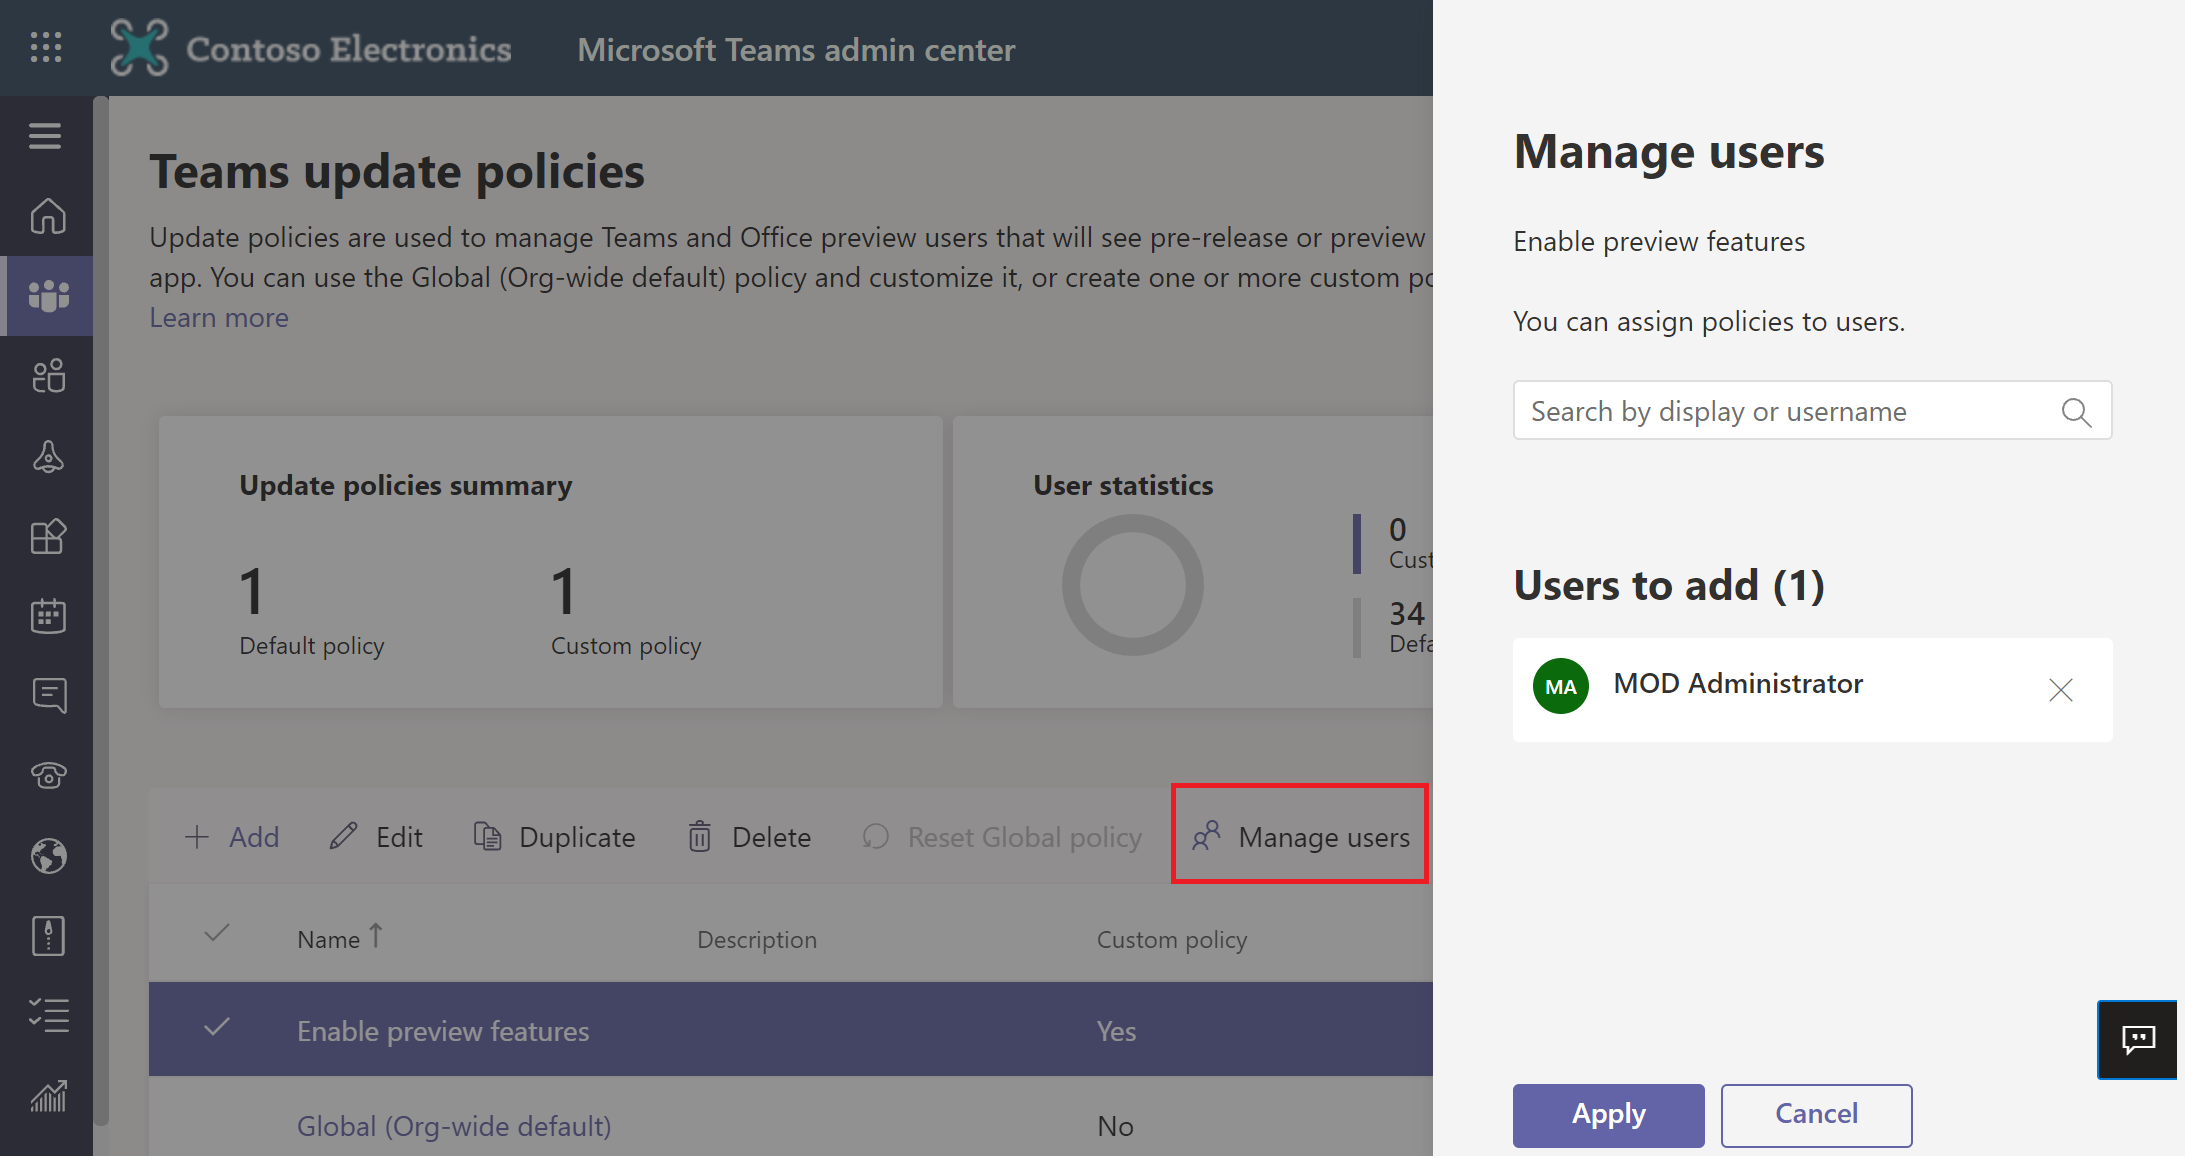
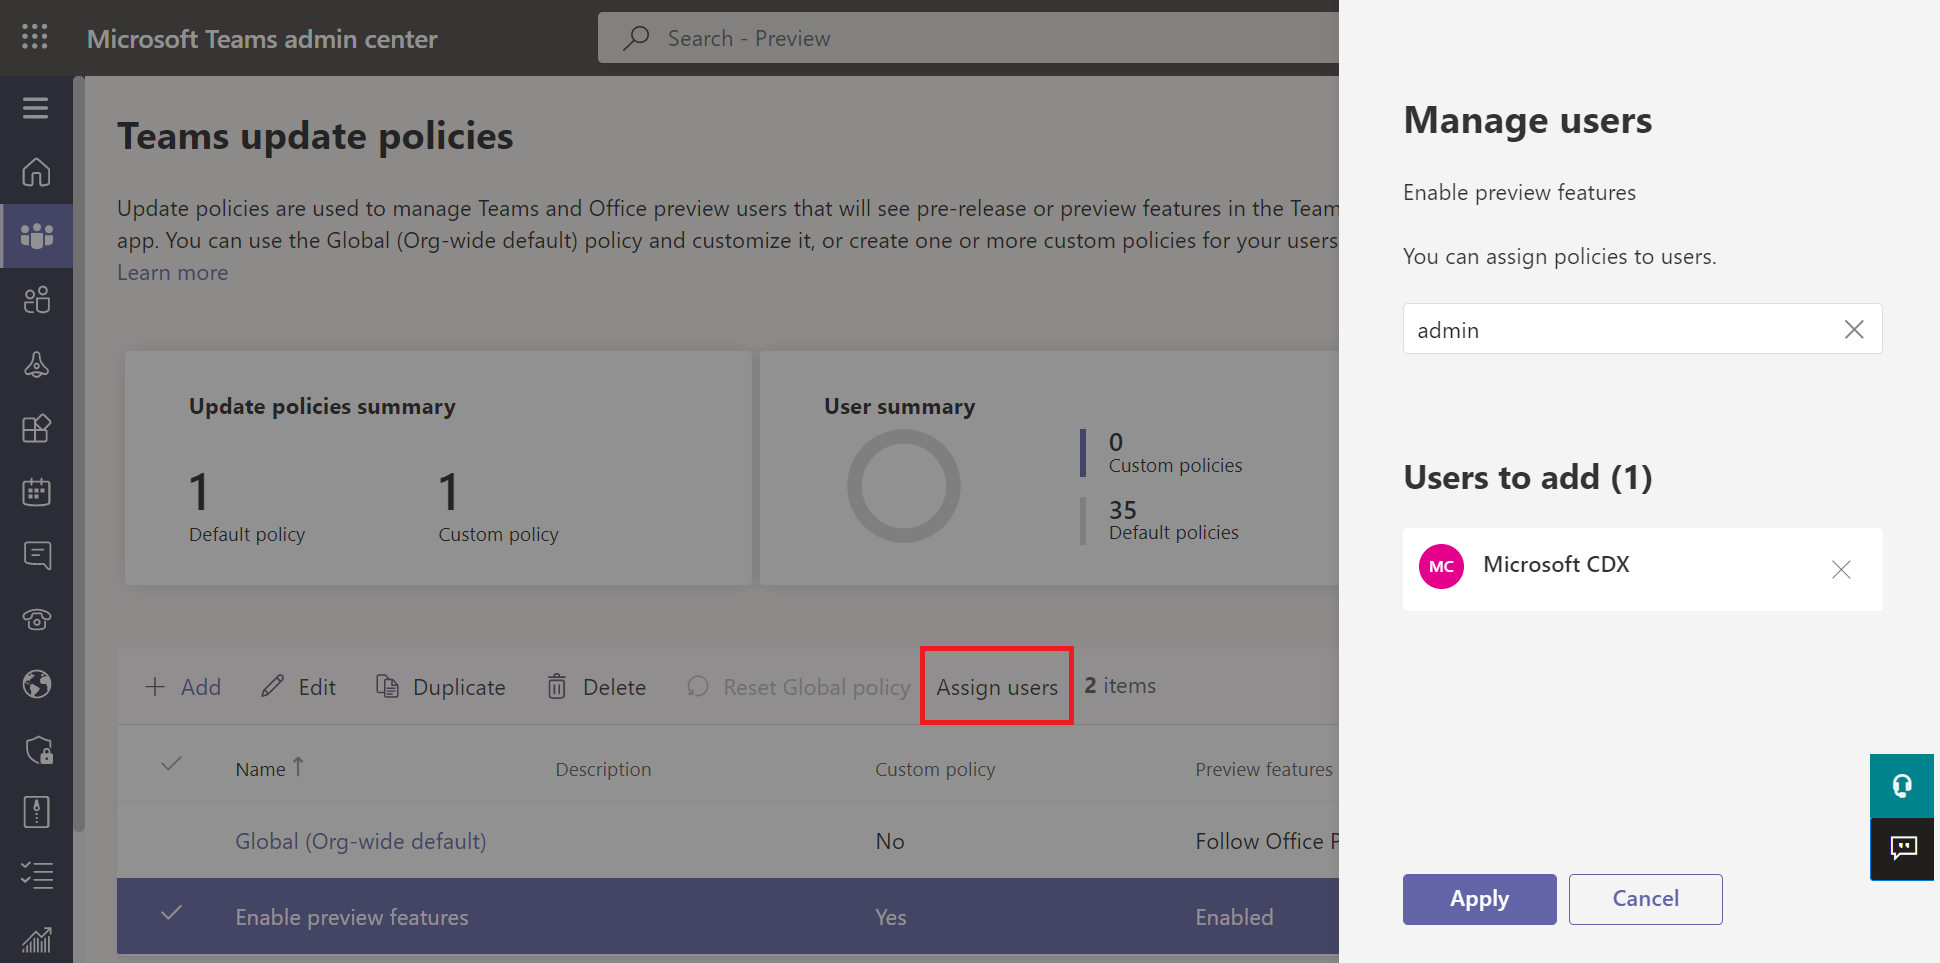
changed files by pdets auto publish service, publishid[5596f246-1943-4e95-bf6b-cd09cc454cc3] and do [publish].

diff --git a/learn-m365-pr/wwl/implement-lifecycle-management-governance-for-microsoft-teams/includes/7-plan-policy-assignment-for-users-groups.md b/learn-m365-pr/wwl/implement-lifecycle-management-governance-for-microsoft-teams/includes/7-plan-policy-assignment-for-users-groups.md
@@ -11,7 +11,7 @@ Policy type | Description | Policies |
 ------------|------------|---|
 Policy packages| A policy package is a collection of predefined policies and settings you can assign to users who have similar roles in your organization.| - Policy package
 Meeting policies | A meeting policy is used to control the features that are available to meeting participants for meetings scheduled by users in your organization. | - Meeting policy<br> - Live events policy| 
-Voice and calling policies| Voice and calling policies manage these settings through teams such as emergency calling, call routing, and caller ID.|- Call park policy<br> - Calling policy<br> - Caller ID policy<br> - Emergency calling policy<br> - Emergency call routing policy<br> - Dial plan<br> - Voice routing policy|
+Voice and calling policies| Voice and calling policies manage these settings through teams such as emergency calling, call routing, and caller ID.|- Calling policy<br>- Call park policy<br>- Caller ID policy<br> - Emergency policy<br> - Voice routing policy<br> - Voicemail policy <br>- Dial plan<br> |
 App policies| App policies are used to control applications in Microsoft Teams, such as allowing or blocking which apps users can install.|- App permission policy<br> - App setup policy|
 Chat, teams, and channel policies| Chat, teams, and channel policies control teams and collaboration feature availability.|- Messaging policy<br> - Templates policy<br> - Teams policy|
 Teams feature policy |Update policies are used to manage Teams and Office preview users that will see pre-release or preview features in the Teams app. |- Update policy|
@@ -61,8 +61,3 @@ A user has one effective policy for each policy type. A user's effective policy 
 > * Group policy assignments are only propagated to users who are direct members of the group. The assignments aren't propagated to members of nested groups.
 > *  If a user has a policy of a given type that was directly assigned to them, you have to remove that policy from the user before they can inherit a policy of the same type from a group.
 > * If you assign policies to batches of more than 20 users through the Microsoft Teams admin center, you can view the status of those policy assignments from the last 30 days in the Activity log (**Teams admin center** > **Dashboard** > **Activity Log**). 
-
-
-## Knowledge check
-
-Choose the best response for the following question. Then select “Check your answers.”

diff --git a/learn-m365-pr/wwl/implement-lifecycle-management-governance-for-microsoft-teams/includes/10-create-manage-teams-templates.md b/learn-m365-pr/wwl/implement-lifecycle-management-governance-for-microsoft-teams/includes/10-create-manage-teams-templates.md
@@ -10,7 +10,7 @@ There are two type of team templates.
 
     Base template types are special templates that Microsoft created for specific industries. These base templates often contain proprietary apps that aren't available in the store and team properties that are not yet supported individually in Teams templates.
 
-    Once a base template type is defined, you can extend or override these special templates with additional properties that you'd like to specify. But some base template types contain properties that can't be overridden. For the available base template types, see [base template types](https://docs.microsoft.com/microsoftteams/get-started-with-teams-templates?azure-portal=true#team-template-capabilities).
+    Once a base template type is defined, you can extend or override these special templates with additional properties that you'd like to specify. But some base template types contain properties that can't be overridden. For the available base template types, see [base template types](/microsoftteams/get-started-with-teams-templates?azure-portal=true#team-template-capabilities).
 
 * **Custom template**
 
@@ -89,13 +89,21 @@ Manage the team templates that your end users see by creating templates policies
 
 8. Select **Save**.
 
+    :::image type="content" source="../media/new-team-template-polocy.png" alt-text="Create templates policy":::
+
    Your new template policy is displayed in the **Templates Policies** list.
 
 ### Assign users to the template policies
 
-Users assigned to a policy will only be able to view the viewable templates within that policy.
+Users assigned to a policy will only be able to view the viewable templates within that policy. You can use the Teams admin center or PowerShell to assign a templates policy to:
+
+* An individual user or to a small number of users at a time
+* A batch of users or to large sets of users at a time
+
+To assign a templates policy to an individual user or to a small number of users at a time:
 
 1. From **Templates Policies**, select a policy, and then select **Manage users**.
 2. Type the users to assign to this policy.
 3. Select **Apply**.
 
+Keep in mind that it may take up to 24 hours for your new policy to take effect for your users.

diff --git a/learn-m365-pr/wwl/implement-lifecycle-management-governance-for-microsoft-teams/includes/2-plan-teams-lifecycle.md b/learn-m365-pr/wwl/implement-lifecycle-management-governance-for-microsoft-teams/includes/2-plan-teams-lifecycle.md
@@ -67,7 +67,7 @@ The **end stage** occurs when a team has concluded its useful lifecycle, normall
 
 Teams are deleted with a "soft delete" that IT can reverse for up to 30 days. Deleting teams doesn't affect any chats or content that were retained in accordance with compliance policies. Channels also have a "soft delete" and can be reversed for up to 21 days after deletion. 
 
-When a group or team is deleted, most of the information in the connected services is also deleted. Understand the impacts when a team is deleted to avoid any potential data loss.
+When a group or team is deleted, most of the information in the connected services is also deleted with some exceptions. Any content protected by a retention policy remains available through eDiscovery searches. Understand the impacts when a team is deleted to avoid any potential data loss.
 
 * **Guests** - When a team is deleted, guests aren't removed from Azure Active Directory. 
 
@@ -82,6 +82,8 @@ When a group or team is deleted, most of the information in the connected servic
 * **Power BI** - Power BI data and workspaces can operate independently from groups and teams. If you need the report once the group or team is deleted, it can be copied from the existing workspace to another workspace within Power BI.
 
 * **Dataverse for Teams** - If the team is deleted, the Dataverse for Teams environment that was created will also be deleted. The Dataverse for Teams environment itself can be deleted from within the team by the team owner. To keep the data, you can upgrade a Dataverse for Teams environment to a Dataverse database environment. The upgraded environment's lifecycle will no longer be tied to the lifecycle of that team. If the team is deleted, the upgraded environment remains.
+
+* **Project** - Projects and Roadmaps created in Project for the web are associated with Microsoft 365 groups and have approaches to off-boarding similar to Power BI. You can **assign the project to another group** or **export data from the project or roadmap**.
 
 Important decision points related to the end stage include:
 

diff --git a/learn-m365-pr/wwl/implement-lifecycle-management-governance-for-microsoft-teams/includes/12-summary.md b/learn-m365-pr/wwl/implement-lifecycle-management-governance-for-microsoft-teams/includes/12-summary.md
@@ -1,10 +1,11 @@
-In this module, you learned about Teams lifecycle management and governance. You learned different features to govern Microsoft 365 Groups, ways to assign Teams policies, and Teams preview features controls. 
+In this module, you learned about Teams lifecycle management and governance. You learned different features to govern Microsoft 365 Groups, ways to assign Teams policies, Teams preview features controls, Teams templates, and templates policies. 
 
 Now that you have completed this module, you should be able to:
 
-- Describe the lifecycle management for Teams.
-- Plan and configure Microsoft 365 Groups governance features for Teams.
-- Plan the Teams policy assignment for different scenarios.
-- Create and manage policy packages.
-- Control Teams preview features for users.
-- Create and manage team templates.
+* Describe the lifecycle management for Teams
+* Plan governance features for Teams.
+* Configure Microsoft 365 Groups governance features 
+* Plan the Teams policy assignment for different scenarios.
+* Create and manage policy packages.
+* Control Teams preview features for users.
+* Create and manage team templates and templates policies

diff --git a/learn-m365-pr/wwl/implement-lifecycle-management-governance-for-microsoft-teams/includes/9-manage-teams-preview-features-using-teams-update-policies.md b/learn-m365-pr/wwl/implement-lifecycle-management-governance-for-microsoft-teams/includes/9-manage-teams-preview-features-using-teams-update-policies.md
@@ -27,7 +27,7 @@ Once you created the custom policy, you need to assign the policy to specific us
 
 1. Go to **Teams admin center** > **Teams** > **Teams update policies**.
 2. Select the custom Update policy. 
-3. Select **Manage Users**.
+3. Select **Assign users**.
 4. Search and select **Add** next to the users.
 5. Select **Apply**.
 
@@ -37,7 +37,7 @@ You can also set the policy with PowerShell using the `Set-CsTeamsUpdateManageme
 
 ## Enable public preview in Teams clients
 
-Depends on the assigned policy, users will need to switch to public preview from their Teams clients. 
+Depending on the assigned policy, users will need to switch to public preview from their Teams clients. 
 
 * Users who are assigned the update policy with **"Not enabled"** option will not see Teams preview features.
 

diff --git a/learn-m365-pr/wwl/implement-lifecycle-management-governance-for-microsoft-teams/includes/1-introduction.md b/learn-m365-pr/wwl/implement-lifecycle-management-governance-for-microsoft-teams/includes/1-introduction.md
@@ -5,8 +5,9 @@ In this module, you will learn the features for Teams lifecycle management and g
 After this module, you will be able to:
 
 - Describe the lifecycle management for Teams
-- Plan and configure Microsoft 365 Groups governance features for Teams.
-- Plan the Teams policy assignment for different scenarios.
-- Create and manage policy packages.
-- Control Teams preview features for users.
-- Create and manage team templates.
+- Plan governance features for Teams
+- Configure Microsoft 365 Groups governance features 
+- Plan the Teams policy assignment for different scenarios
+- Create and manage policy packages
+- Control Teams preview features for users
+- Create and manage team templates and templates policies

diff --git a/learn-m365-pr/wwl/implement-lifecycle-management-governance-for-microsoft-teams/includes/5-configure-microsoft-365-groups-expiration-policy.md b/learn-m365-pr/wwl/implement-lifecycle-management-governance-for-microsoft-teams/includes/5-configure-microsoft-365-groups-expiration-policy.md
@@ -13,6 +13,8 @@ Groups that are actively in use are renewed automatically. Any of the following 
 * SharePoint - view, edit, download, move, share, or upload files. (Viewing a SharePoint page does not count as an action for automatic renewal.)
 * Outlook - join group, read or write group message from the group, and like a message (Outlook on the web).
 * Teams - visiting a teams channel.
+* Yammer - View a post within a Yammer community or an interactive email in Outlook.
+* Forms - View, create, or edit forms, or submit a response to a form.
 
 ## Configure Microsoft 365 groups expiration policy
 

diff --git a/learn-m365-pr/wwl/implement-lifecycle-management-governance-for-microsoft-teams/includes/4-manage-microsoft-365-groups-creation.md b/learn-m365-pr/wwl/implement-lifecycle-management-governance-for-microsoft-teams/includes/4-manage-microsoft-365-groups-creation.md
@@ -217,7 +217,3 @@ Set-AzureADDirectorySetting -Id $settingsObjectID -DirectorySetting $settingsCop
 
 For more information, see [Manage who can create Microsoft 365 groups](/office365/admin/create-groups/manage-creation-of-groups?azure-portal=true). 
 
-
-## Knowledge check
-
-Choose the best response for the following question. Then select “Check your answers.”
